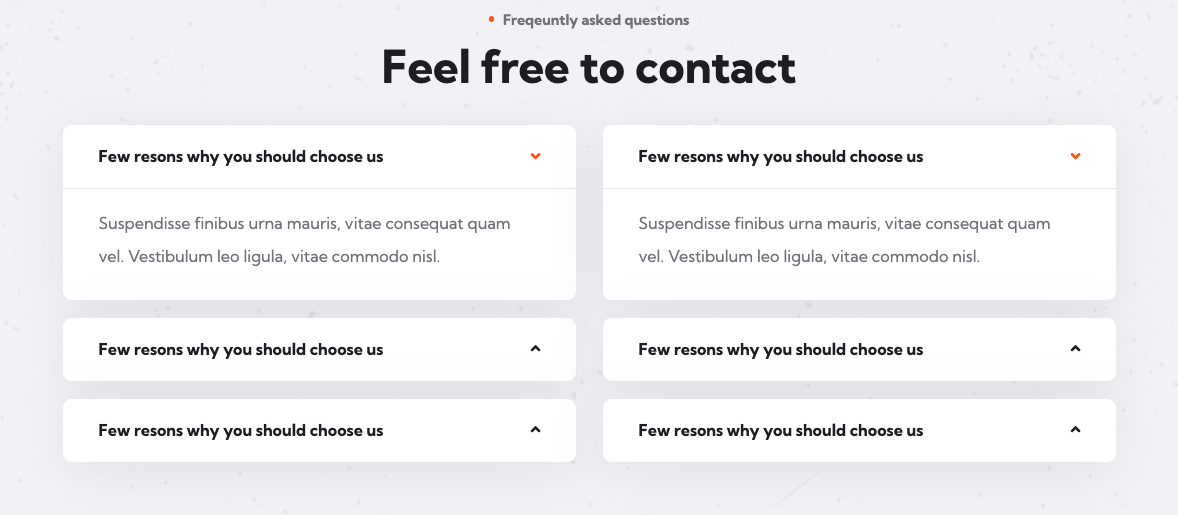
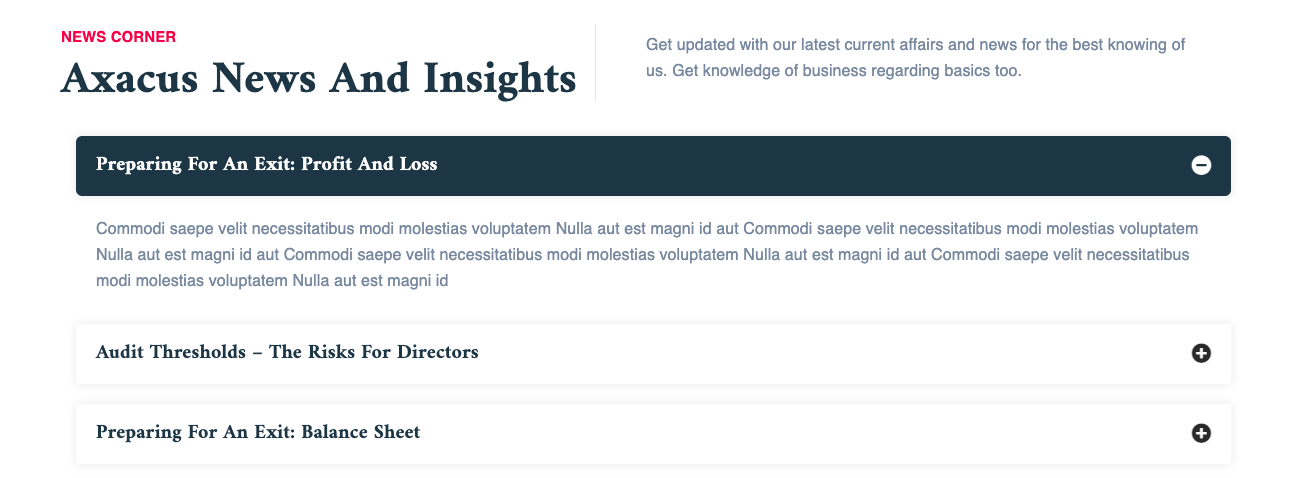
accordion section update

diff --git a/resources/views/frontend/pages/dynamic_page.blade.php b/resources/views/frontend/pages/dynamic_page.blade.php
@@ -102,6 +102,9 @@
         border-color: transparent;
         background-color: transparent;
     }
+        .section-title.style2 .title-header{
+            width: 55%;
+        }
 </style>
 
 @endsection
@@ -683,49 +686,43 @@
                 @endif
 
                 @if($value == "accordion_section")
-                    <!-- FAQs Page Area start -->
-                    <section class="faqs-page">
-                        <div class="faqs-page-bg" style="background-image: url({{asset('assets/frontend/images/backgrounds/faqs-page-bg.jpg')}})"></div>
-                        <div class="container">
-                          <div class="section-title text-center">
-                            <span class="section-title__tagline">{{ucwords(@$accordian2_elements[0]->subheading)}}</span>
-                            <h2 class="section-title__title">
-                                   <span><?php
-                                       $split = explode(" ", ucwords(@$accordian2_elements[0]->heading));?> {{preg_replace('/\W\w+\s*(\W*)$/', '$1', ucwords(@$accordian2_elements[0]->heading))."\n"}}</span>
-                                <span class="text-last">{{$split[count($split)-1]}}</span>
-
-                            </h2>
-                          </div>
-                          <div class="row">
-                            @foreach($accordian2_elements->chunk(2) as $index => $chunk )
-
-                              <div class="col-xl-6 col-lg-6">
-                                <div class="faqs-page__single">
-                                  <div class="accrodion-grp faq-one-accrodion" data-grp-name="faq-one-accrodion">
-                                    @foreach($chunk as  $accordian2_element)
-
-                                        <div class="accrodion @if($loop->first) active @endif @if($loop->last) last-chiled @endif">
-                                          <div class="accrodion-title">
-                                            <h4>{{@$accordian2_element->list_header}}</h4>
-                                          </div>
-                                          <div class="accrodion-content" style="@if($loop->first)  @else display: none; @endif">
-                                            <div class="inner">
-                                              <p>{!! @$accordian2_element->list_description !!}</p>
-                                            </div><!-- /.inner -->
-                                          </div>
-                                        </div>
-                                    @endforeach
-
-                                  </div>
+                        <section class="ttm-row blog-section clearfix">
+                            <div class="container">
+                                <!-- row -->
+                                <div class="row">
+                                    <div class="col-lg-12">
+                                        <!-- section title -->
+                                        <div class="section-title style2">
+                                            <div class="title-header">
+                                                @if(ucwords(@$accordian2_elements[0]->subheading) !== null)
+                                                    <h3>{{ucwords(@$accordian2_elements[0]->subheading)}}</h3>
+                                                @endif
+                                                <h2 class="title">{{ucwords(@$accordian2_elements[0]->heading)}}</h2>
+                                            </div>
+                                            <div class="title-desc">
+                                                <p>{{ucwords(@$accordian2_elements[0]->description)}}</p>
+                                            </div>
+                                        </div><!-- section title end -->
+                                    </div>
                                 </div>
-                              </div>
-                            @endforeach
+                                <div class="row">
+                                    <div class="col-lg-12">
+                                        <div class="accordion padding_top15 padding_left15 res-991-padding_left0 res-991-padding_top30">
+                                            @foreach($accordian2_elements as $accordian2_element )
+                                                <div class="toggle ttm-toggle_style_classic style2 ttm-toggle-title-bgcolor-white">
+                                                    <div class="toggle-title box-shadow"><a href="#" class="@if($loop->first) active @endif">{{@$accordian2_element->list_header}}</a></div>
+                                                    <div class="toggle-content @if($loop->first) show @endif">
+                                                        <p>{!! @$accordian2_element->list_description !!}</p>
+                                                    </div>
+                                                </div><!-- toggle end -->
+                                            @endforeach
+                                        </div>
+                                    </div>
+                                </div>
+                            </div>
+                        </section>
 
 
-                          </div>
-                        </div>
-                      </section>
-                  <!-- FAQs Page Area end -->
                 @endif
 
                 @if($value == "gallery_section")
@@ -1006,7 +1003,6 @@
 
 
              @endif
-
 
 
         </div>

diff --git a/app/Http/Controllers/SectionElementController.php b/app/Http/Controllers/SectionElementController.php
@@ -352,11 +352,13 @@ class SectionElementController extends Controller
         elseif ($section_name == 'accordion_section'){
                 $list2_num   = $request->input('list_number_2');
                 for ($i=0;$i<$list2_num;$i++){
-                    $heading     =  (array_key_exists($i, $request->input('heading')) ?  $request->input('heading')[$i]: Null);
-                    $subheading  =  (array_key_exists($i, $request->input('subheading')) ?  $request->input('subheading')[$i]: Null);
+                    $heading      =  (array_key_exists($i, $request->input('heading')) ?  $request->input('heading')[$i]: Null);
+                    $subheading   =  (array_key_exists($i, $request->input('subheading')) ?  $request->input('subheading')[$i]: Null);
+                    $description  =  (array_key_exists($i, $request->input('description')) ?  $request->input('description')[$i]: Null);
                     $data=[
                         'heading'               => $heading,
                         'subheading'            => $subheading,
+                        'description'           => $description,
                         'page_section_id'       => $section_id,
                         'list_header'           => $request->input('list_header')[$i],
                         'list_description'      => $request->input('list_description')[$i],
@@ -687,10 +689,12 @@ class SectionElementController extends Controller
             for ($i=0;$i<$list2_num;$i++) {
                 $heading     =  (array_key_exists($i, $request->input('heading')) ?  $request->input('heading')[$i]: Null);
                 $subheading  =  (array_key_exists($i, $request->input('subheading')) ?  $request->input('subheading')[$i]: Null);
+                $description  =  (array_key_exists($i, $request->input('description')) ?  $request->input('description')[$i]: Null);
                 if($request->input('id')[$i] == null){
                     $data=[
                         'heading'               => $heading,
                         'subheading'            => $subheading,
+                        'description'           => $description,
                         'page_section_id'       => $section_id,
                         'list_header'           => $request->input('list_header')[$i],
                         'list_description'      => $request->input('list_description')[$i],
@@ -702,6 +706,7 @@ class SectionElementController extends Controller
                     $accordian2                      = SectionElement::find($request->input('id')[$i]);
                     $accordian2->heading             = $heading;
                     $accordian2->subheading          = $subheading;
+                    $accordian2->description         = $description;
                     $accordian2->page_section_id     = $section_id;
                     $accordian2->list_header         = $request->input('list_header')[$i];
                     $accordian2->list_description    = $request->input('list_description')[$i];

diff --git a/resources/views/backend/pages/section_elements/create.blade.php b/resources/views/backend/pages/section_elements/create.blade.php
@@ -1063,16 +1063,23 @@
                                                      <div class="card-body">
                                                          <div class="form-group mb-3">
                                                              <label>Heading <span class="text-muted text-danger">*</span></label>
-                                                             <input type="text" class="form-control" maxlength="30" name="heading[]" value="{{@$accordian2_elements[0]->heading}}" required>
+                                                             <input type="text" class="form-control" maxlength="25" name="heading[]" value="{{@$accordian2_elements[0]->heading}}" required>
                                                              <div class="invalid-feedback">
                                                                  Please enter the heading.
                                                              </div>
                                                          </div>
                                                          <div class="form-group mb-3">
                                                              <label>Sub Heading <span class="text-muted text-danger">*</span></label>
-                                                             <input type="text" class="form-control" maxlength="40" name="subheading[]" value="{{@$accordian2_elements[0]->subheading}}" required>
+                                                             <input type="text" class="form-control" maxlength="40" name="subheading[]" value="{{@$accordian2_elements[0]->subheading}}">
                                                              <div class="invalid-feedback">
                                                                  Please enter the sub heading.
+                                                             </div>
+                                                         </div>
+                                                         <div class="form-group mb-3">
+                                                             <label>Description <span class="text-muted text-danger">*</span></label>
+                                                             <textarea class="form-control" rows="6" maxlength="130" name="description[]">{{@$accordian2_elements[0]->description}}</textarea>
+                                                             <div class="invalid-feedback">
+                                                                 Please enter the description.
                                                              </div>
                                                          </div>
                                                      </div>

diff --git a/resources/views/backend/pages/edit.blade.php b/resources/views/backend/pages/edit.blade.php
@@ -309,7 +309,7 @@
                                         <div class="col-md-12 mb-2">
                                             <div class="form-group">
                                                 <label>Number of Tab List <span class="text-muted text-danger">*</span></label>
-                                                <input type="number" min="2" class="form-control" name="list_number_2" value="{{$list2}}">
+                                                <input type="number" min="1" class="form-control" name="list_number_2" value="{{$list2}}">
                                                 <div class="invalid-feedback">
                                                     Please enter the Accordion tab number.
                                                 </div>

diff --git a/resources/views/backend/pages/create.blade.php b/resources/views/backend/pages/create.blade.php
@@ -323,7 +323,7 @@
                                         <div class="col-md-12 mb-2">
                                             <div class="form-group">
                                                 <label>Number of Tab List <span class="text-muted text-danger">*</span></label>
-                                                <input type="number" min="2" class="form-control" name="list_number_2" >
+                                                <input type="number" min="1" class="form-control" name="list_number_2" >
                                                 <div class="invalid-feedback">
                                                     Please enter the Accordion tab number.
                                                 </div>
